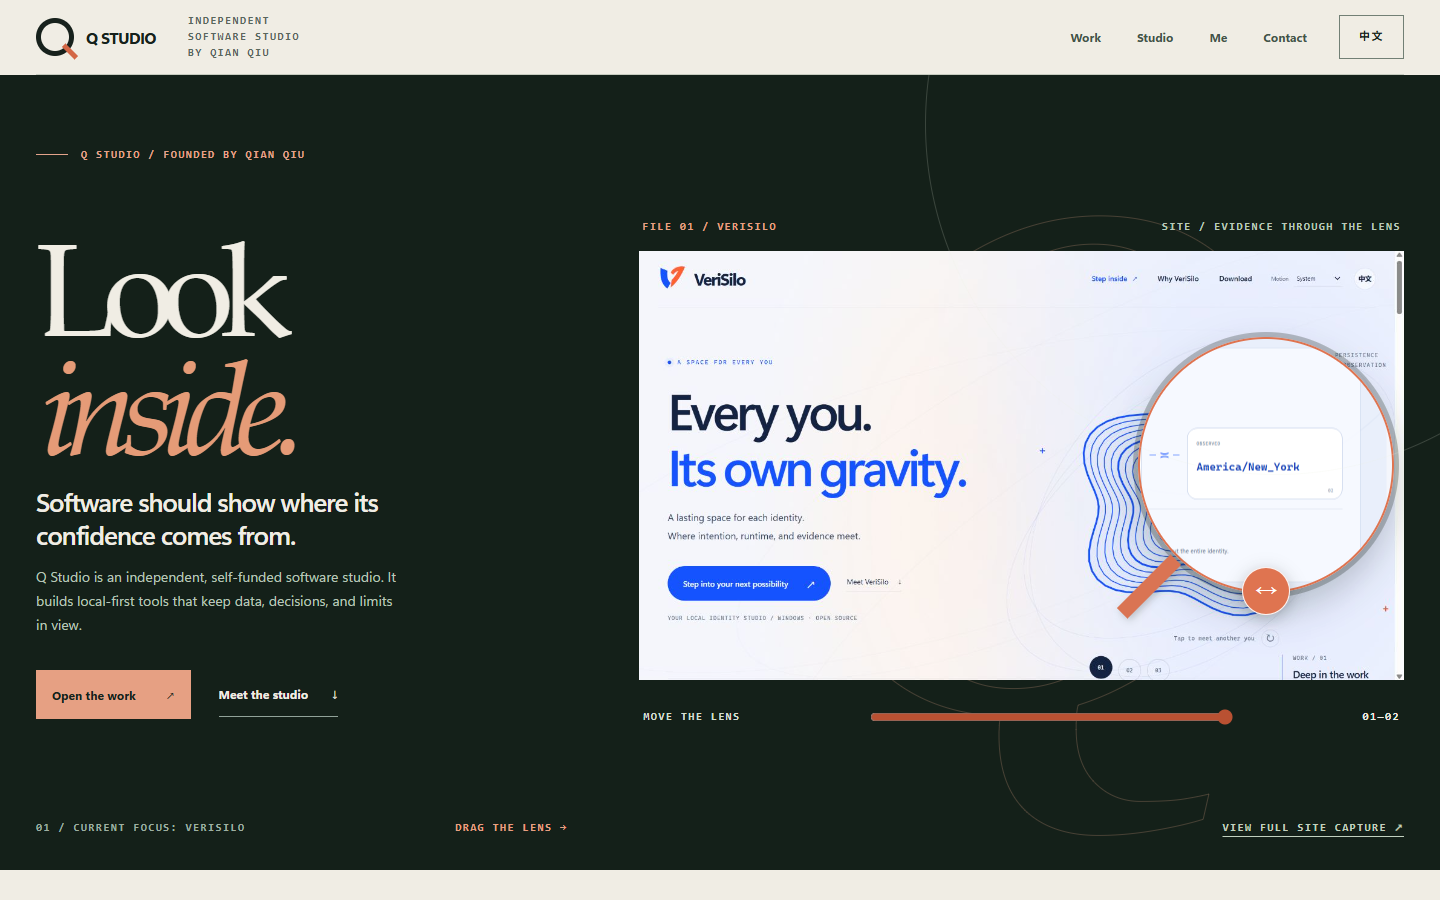
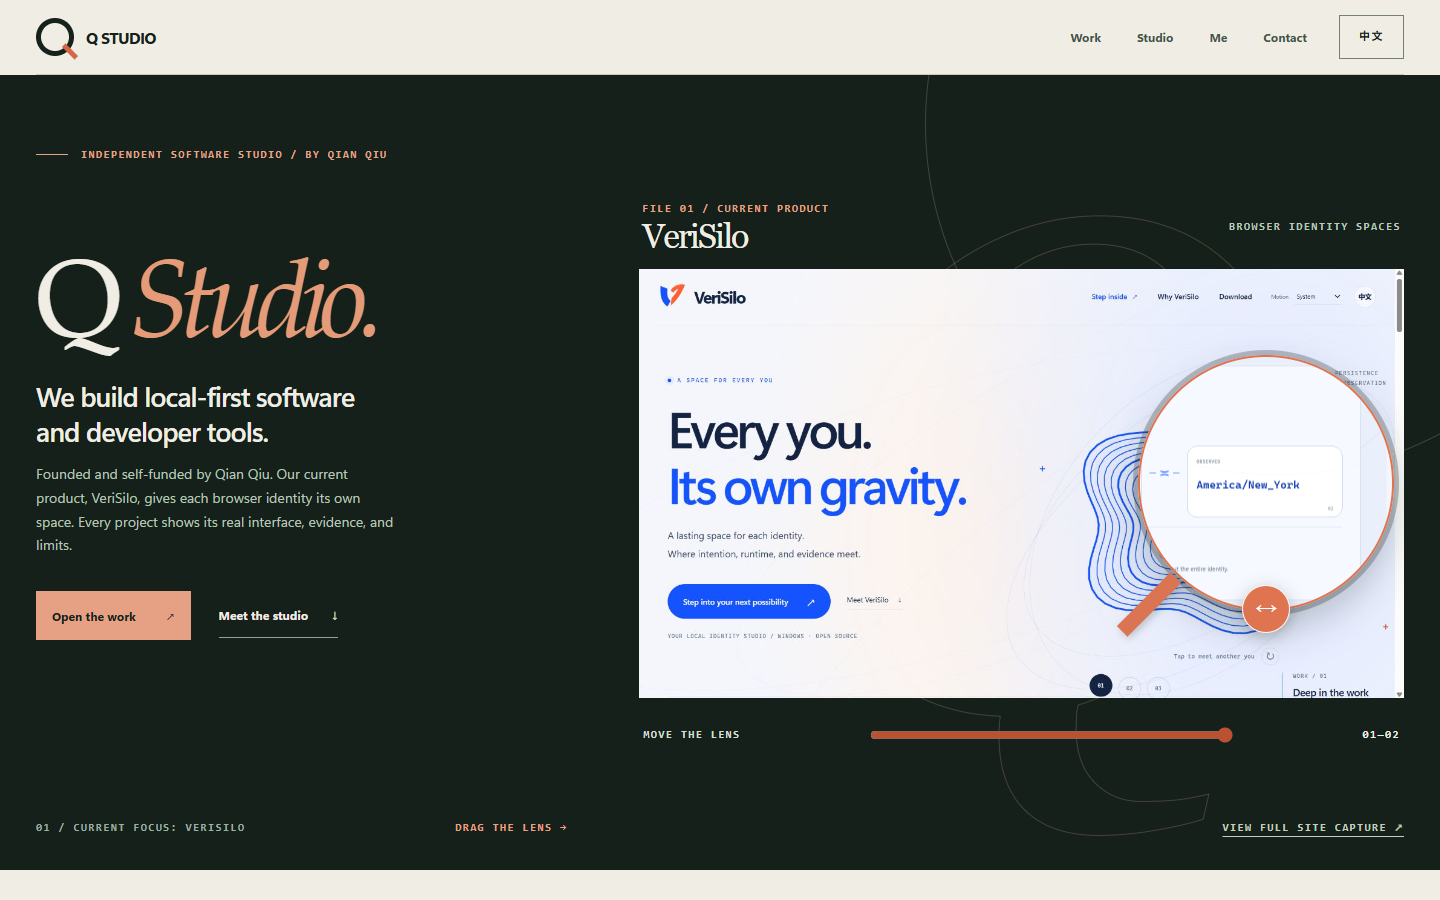
feat(developer): make Q Studio identity clear on homepage

diff --git a/developer/src/styles/global.css b/developer/src/styles/global.css
@@ -16,8 +16,7 @@
     .mark { display:flex; align-items:center; gap:12px; white-space:nowrap; text-decoration:none; font-size:16px; font-weight:850; letter-spacing:-.045em; }
     .mark__q { display:grid; place-items:center; width:38px; height:38px; border:5px solid var(--ink); border-radius:50%; font-size:0; position:relative; }
     .mark__q::after { content:""; position:absolute; width:18px; height:5px; right:-10px; bottom:-3px; background:var(--rust); transform:rotate(45deg); }
-    .top__descriptor { margin-right:auto; max-width:22ch; color:#59675d; }
-    .top nav { display:flex; align-items:center; gap:clamp(18px,2.5vw,38px); }
+    .top nav { display:flex; align-items:center; gap:clamp(18px,2.5vw,38px); margin-left:auto; }
     .top nav a { min-height:44px; display:inline-flex; align-items:center; color:#445449; text-decoration:none; font-size:12px; font-weight:700; }
     .top nav a:hover { color:#a9462b; }
     .lang { display:grid; place-items:center; min-width:65px; min-height:44px; padding:0 10px; border:1px solid #728075; background:transparent; color:var(--ink); text-decoration:none; }
@@ -30,10 +29,10 @@
     .hero__copy { position:relative; z-index:2; display:flex; flex-direction:column; align-items:start; }
     .eyebrow { display:flex; align-items:center; gap:13px; margin:0; color:#e3a38b; }
     .eyebrow::before { content:""; width:32px; height:1px; background:currentColor; }
-    .hero h1 { margin:clamp(55px,8vh,115px) 0 28px; font:400 clamp(91px,9.2vw,156px)/.78 "Iowan Old Style","Palatino Linotype",Georgia,serif; letter-spacing:-.105em; }
-    .hero h1 span,.hero h1 em { display:block; }
-    .hero h1 em { margin:15px 0 0 .035em; color:#e59b77; font-weight:400; }
-    .hero__lead { max-width:29ch; margin:0 0 14px; font-size:clamp(18px,1.8vw,28px); line-height:1.28; font-weight:500; letter-spacing:-.04em; }
+    .hero h1 { margin:clamp(65px,9vh,125px) 0 30px; font:400 clamp(70px,7.6vw,116px)/.95 "Iowan Old Style","Palatino Linotype",Georgia,serif; letter-spacing:-.095em; white-space:nowrap; }
+    .hero h1 em { color:#e59b77; font-weight:400; }
+    .hero__lead { max-width:33ch; margin:0 0 14px; font-size:clamp(20px,1.9vw,29px); line-height:1.28; font-weight:600; letter-spacing:-.04em; }
+    .hero__lead span { display:block; }
     .hero__body { max-width:48ch; margin:0; color:#b8c4b8; font-size:14px; line-height:1.7; }
     .hero__actions { display:flex; flex-wrap:wrap; align-items:center; gap:16px 28px; margin-top:34px; }
     .primary { display:inline-flex; align-items:center; justify-content:space-between; gap:30px; min-height:49px; padding:11px 16px; background:#e6a083; color:#17211c; text-decoration:none; font-size:12px; font-weight:800; }
@@ -47,7 +46,10 @@
     .specimen { position:relative; width:100%; margin-inline:auto; color:var(--paper); }
     .specimen__head,.specimen__foot { display:flex; justify-content:space-between; align-items:center; gap:15px; }
     .specimen__head { padding:0 3px 16px; color:#b9c8b9; }
-    .specimen__head span:first-child { color:#e6a083; }
+    .specimen__identity { display:flex; flex-direction:column; gap:2px; }
+    .specimen__identity span { color:#e6a083; }
+    .specimen__identity strong { color:var(--paper); font:400 clamp(24px,2.7vw,34px)/1 "Iowan Old Style",Georgia,serif; letter-spacing:-.055em; }
+    .specimen__head > span:last-child { text-align:right; }
     .specimen__window { position:relative; overflow:hidden; width:100%; aspect-ratio:1264 / 708; background:#f3f5fb; --cut:72%; --lens-radius:clamp(80px,10vw,128px); }
     .specimen__window img { position:absolute; inset:0; width:100%; height:100%; object-fit:cover; object-position:center; }
     .specimen__proof { position:absolute; z-index:1; top:50%; left:var(--cut); overflow:hidden; width:calc(2 * var(--lens-radius)); height:calc(2 * var(--lens-radius)); transform:translate(-50%,-50%); border-radius:50%; pointer-events:none; }
@@ -156,15 +158,11 @@
     .image-dialog__head button { width:43px; height:43px; border:1px solid #8f9f90; background:transparent; color:var(--ink); font-size:24px; }
     .image-dialog img { width:auto; max-width:100%; max-height:calc(94vh - 61px); margin:auto; }
 
-    :lang(zh) .hero h1, :lang(zh) .section-head h2, :lang(zh) .proposition h2, :lang(zh) .method h2, :lang(zh) .writing h2, :lang(zh) .contact h2 { font-family:"Songti SC","SimSun","Noto Serif CJK SC",serif; letter-spacing:-.085em; }
-    :lang(zh) .hero h1 { font-size:clamp(75px,8vw,132px); line-height:.99; }
-    :lang(zh) .hero h1 em { margin-top:7px; font-style:normal; }
+    :lang(zh) .section-head h2, :lang(zh) .proposition h2, :lang(zh) .method h2, :lang(zh) .writing h2, :lang(zh) .contact h2 { font-family:"Songti SC","SimSun","Noto Serif CJK SC",serif; letter-spacing:-.085em; }
 
     @media (max-width:1100px) {
-      .top__descriptor { display:none; }
-      .top nav { margin-left:auto; }
       .hero__inner { grid-template-columns:minmax(0,.85fr) minmax(0,1.15fr); }
-      .hero h1 { font-size:clamp(74px,8vw,105px); }
+      .hero h1 { font-size:clamp(65px,7.2vw,88px); }
       .hero__art::before { font-size:58vw; }
       .case summary { grid-template-columns:55px minmax(170px,.8fr) minmax(0,1fr) 42px; }
       .case__body { padding-left:73px; }
@@ -175,7 +173,7 @@
       .top nav { gap:17px; }
       .top nav a { font-size:11px; }
       .hero__inner { display:flex; flex-direction:column; min-height:0; padding-block:49px 55px; }
-      .hero h1 { margin-top:55px; font-size:clamp(76px,14vw,120px); }
+      .hero h1 { margin-top:55px; font-size:clamp(68px,11vw,105px); }
       .hero__lead { max-width:38ch; }
       .hero__bottom { display:none; }
       .hero__art { margin-top:70px; padding:0 0 60px; }
@@ -205,9 +203,10 @@
       .mark__q { width:32px; height:32px; border-width:4px; }
       .mark__q::after { width:15px; height:4px; right:-8px; }
       .lang { min-width:49px; padding-inline:5px; }
-      .hero h1 { font-size:clamp(75px,17vw,92px); }
+      .hero h1 { font-size:clamp(54px,17vw,72px); }
       .specimen__head,.specimen__foot { font-size:8px; }
       .specimen__head { padding-bottom:8px; }
+      .specimen__identity strong { font-size:22px; }
       .specimen__window { --lens-radius:72px; }
       .specimen__seam::before { right:-20px; bottom:-1px; width:52px; height:11px; }
       .specimen__window[data-tail="left"] .specimen__seam::before { left:-20px; }

diff --git a/developer/src/fragments/home-en.html b/developer/src/fragments/home-en.html
@@ -1,7 +1,6 @@
 <a class="skip" href="#main">Skip to content</a>
   <header class="top frame">
     <a class="mark" href="#top" aria-label="Q Studio home"><span class="mark__q" aria-hidden="true">Q</span>Q STUDIO</a>
-    <span class="top__descriptor micro">Independent software studio<br>by Qian Qiu</span>
     <nav aria-label="Primary navigation"><a href="#work">Work</a><a href="#method">Studio</a><a href="#me">Me</a><a href="#contact">Contact</a></nav>
     <a class="lang micro" id="language" aria-label="切换到中文" href="/zh/" hreflang="zh-CN">中文</a>
   </header>
@@ -9,22 +8,22 @@
     <section class="hero" id="top" aria-labelledby="hero-title">
       <div class="hero__inner frame">
         <div class="hero__copy">
-          <p class="eyebrow micro">Q STUDIO / FOUNDED BY QIAN QIU</p>
-          <h1 id="hero-title"><span>Look</span><em>inside.</em></h1>
-          <p class="hero__lead">Software should show where its confidence comes from.</p>
-          <p class="hero__body">Q Studio is an independent, self-funded software studio. It builds local-first tools that keep data, decisions, and limits in view.</p>
+          <p class="eyebrow micro">INDEPENDENT SOFTWARE STUDIO / BY QIAN QIU</p>
+          <h1 id="hero-title" aria-label="Q Studio">Q <em>Studio.</em></h1>
+          <p class="hero__lead"><span>We build local-first software</span><span>and developer tools.</span></p>
+          <p class="hero__body">Founded and self-funded by Qian Qiu. Our current product, VeriSilo, gives each browser identity its own space. Every project shows its real interface, evidence, and limits.</p>
           <div class="hero__actions"><a class="primary" href="#work"><span>Open the work</span><span aria-hidden="true">↗</span></a><a class="quiet" href="#method"><span>Meet the studio</span><span aria-hidden="true">↓</span></a></div>
           <div class="hero__bottom micro"><span>01 / CURRENT FOCUS: VERISILO</span><span>DRAG THE LENS →</span></div>
         </div>
         <div class="hero__art">
           <div class="specimen">
-            <div class="specimen__head micro"><span>FILE 01 / VERISILO</span><span>SITE / EVIDENCE THROUGH THE LENS</span></div>
+            <div class="specimen__head"><div class="specimen__identity"><span class="micro">FILE 01 / CURRENT PRODUCT</span><strong>VeriSilo</strong></div><span class="micro">BROWSER IDENTITY SPACES</span></div>
             <div class="specimen__window" id="specimen-window">
               <img id="site-capture" src="/assets/qstudio/verisilo-en.png" width="1264" height="708" alt="VeriSilo official website capture">
               <span class="specimen__proof" aria-hidden="true"><img id="proof-capture" src="/assets/evidence/verisilo-site-en.png" width="1440" height="710" alt=""></span>
               <span class="specimen__seam" id="specimen-seam" aria-hidden="true"></span>
             </div>
-            <div class="specimen__foot"><label class="micro" for="seam-range">MOVE THE LENS</label><input id="seam-range" type="range" min="3" max="97" value="72" aria-label="Move evidence lens"><span class="micro">01—02</span></div>
+            <div class="specimen__foot"><label class="micro" for="seam-range">MOVE THE LENS</label><input id="seam-range" type="range" min="3" max="97" value="97" aria-label="Move evidence lens"><span class="micro">01—02</span></div>
           </div>
           <a class="specimen__caption micro" id="specimen-full" href="/assets/qstudio/verisilo-en.png" target="_blank" rel="noopener noreferrer">VIEW FULL SITE CAPTURE ↗</a>
         </div>

diff --git a/developer/src/fragments/home-zh.html b/developer/src/fragments/home-zh.html
@@ -1,7 +1,6 @@
 <a class="skip" href="#main">跳到正文</a>
   <header class="top frame">
     <a class="mark" href="#top" aria-label="Q Studio 首页"><span class="mark__q" aria-hidden="true">Q</span>Q STUDIO</a>
-    <span class="top__descriptor micro">千秋创办的<br>独立软件工作室</span>
     <nav aria-label="主导航"><a href="#work">作品</a><a href="#method">工作室</a><a href="#me">Me</a><a href="#contact">联系</a></nav>
     <a class="lang micro" id="language" aria-label="Switch to English" href="/" hreflang="en">EN</a>
   </header>
@@ -9,22 +8,22 @@
     <section class="hero" id="top" aria-labelledby="hero-title">
       <div class="hero__inner frame">
         <div class="hero__copy">
-          <p class="eyebrow micro">Q STUDIO / 千秋创办</p>
-          <h1 id="hero-title"><span>看见</span><em>内部。</em></h1>
-          <p class="hero__lead">软件的笃定，应当有迹可循。</p>
-          <p class="hero__body">Q Studio 是独立、自筹的软件工作室，构建本地优先的工具，让数据、判断与能力边界始终可见。</p>
+          <p class="eyebrow micro">独立软件工作室 / 千秋创办</p>
+          <h1 id="hero-title" aria-label="Q Studio">Q <em>Studio.</em></h1>
+          <p class="hero__lead"><span>我们构建本地优先的软件产品</span><span>与开发者工具。</span></p>
+          <p class="hero__body">由千秋独立创办、自筹运营。当前产品 VeriSilo 为不同浏览器身份提供各自的空间。每件作品都展示真实界面、判断依据与能力边界。</p>
           <div class="hero__actions"><a class="primary" href="#work"><span>打开作品</span><span aria-hidden="true">↗</span></a><a class="quiet" href="#method"><span>认识工作室</span><span aria-hidden="true">↓</span></a></div>
           <div class="hero__bottom micro"><span>01 / 当前重点：VERISILO</span><span>拖动镜片 →</span></div>
         </div>
         <div class="hero__art">
           <div class="specimen">
-            <div class="specimen__head micro"><span>档案 01 / VERISILO</span><span>官网 / 镜片下的证据</span></div>
+            <div class="specimen__head"><div class="specimen__identity"><span class="micro">档案 01 / 当前产品</span><strong>VeriSilo</strong></div><span class="micro">浏览器身份空间</span></div>
             <div class="specimen__window" id="specimen-window">
               <img id="site-capture" src="/assets/qstudio/verisilo-zh.png" width="1264" height="708" alt="VeriSilo 官方网站截图">
               <span class="specimen__proof" aria-hidden="true"><img id="proof-capture" src="/assets/evidence/verisilo-site-zh.png" width="1440" height="710" alt=""></span>
               <span class="specimen__seam" id="specimen-seam" aria-hidden="true"></span>
             </div>
-            <div class="specimen__foot"><label class="micro" for="seam-range">移动镜片</label><input id="seam-range" type="range" min="3" max="97" value="72" aria-label="移动证据镜片"><span class="micro">01—02</span></div>
+            <div class="specimen__foot"><label class="micro" for="seam-range">移动镜片</label><input id="seam-range" type="range" min="3" max="97" value="97" aria-label="移动证据镜片"><span class="micro">01—02</span></div>
           </div>
           <a class="specimen__caption micro" id="specimen-full" href="/assets/qstudio/verisilo-zh.png" target="_blank" rel="noopener noreferrer">查看完整官网截图 ↗</a>
         </div>

diff --git a/developer/src/content.ts b/developer/src/content.ts
@@ -8,13 +8,13 @@ export const links = {
 export const meta = {
   en: {
     title: 'Q Studio · Independent software studio by Qian Qiu',
-    description: 'Q Studio is an independent, self-funded software studio founded and operated by Qian Qiu, building local-first and inspectable software including VeriSilo.',
+    description: 'Q Studio is an independent software studio by Qian Qiu, building local-first software and developer tools. Its current product is VeriSilo.',
     image: '/assets/og/developer-en.png',
     imageAlt: 'Q Studio by Qian Qiu — local-first software with explicit boundaries',
   },
   zh: {
     title: 'Q Studio · 由 Qian Qiu 创建的独立软件工作室',
-    description: 'Q Studio 是由 Qian Qiu 独立创建和运营的自筹软件工作室，构建本地优先、可检查的软件，包括已可下载的 VeriSilo 公开预发布版本。',
+    description: 'Q Studio 是千秋创办的独立软件工作室，构建本地优先的软件产品与开发者工具。当前产品是 VeriSilo。',
     image: '/assets/og/developer-zh.png',
     imageAlt: 'Q Studio by Qian Qiu —— 本地优先、边界清楚的软件',
   },

diff --git a/docs/uiux/developer-workbench.md b/docs/uiux/developer-workbench.md
@@ -4,7 +4,7 @@
 
 `prototypes/qstudio-look-inside.html` 的当前交互稿已进入 `developer/`。本节取代下文旧版编辑工作台的视觉、章节与交互规定；旧版内容仅保留决策记录。工作室的真实身份、产品边界、双语路由、链接与元数据要求继续有效。
 
-- 首屏以深绿底、编辑式排印和真实 VeriSilo 官网截图表达「Look inside / 看见内部」。圆形镜片可以直接拖动，也可以通过原生滑条与键盘移动；镜片内显示对应语言的真实证据截图，并随位置平移。滑到最左侧时，证据标题完整可见，不用固定文案替代截图。
+- 首屏以深绿底和醒目的「Q Studio」名称先确立工作室身份，紧接着用对应语言明确说明「构建本地优先的软件产品与开发者工具」。右侧标明 VeriSilo 是当前产品及浏览器身份空间，真实官网截图是作品证据，不代替工作室介绍。圆形镜片可以直接拖动，也可以通过原生滑条与键盘移动；镜片内显示对应语言的真实证据截图，并随位置平移。初始位置显示完整观察值，滑到最左侧时证据标题完整可见，不用固定文案替代截图。
 - 下方按作品、工作方式、创始人、写作、联系方式形成简洁信息流。四个作品以原生 `details` 展开，包含真实截图、受众、边界与来源链接。`Me` 跳到创始人段落，个人站预览保持矩形全图，链接进入对应语言的 `me.qiu.works`。
 - `/` 英文、`/zh/` 中文都在构建时输出完整正文。语言切换保留当前锚点；截图资源使用正式站点路径。截图放大有原生图片链接作为无 JavaScript 回退。
 - 页面使用原型的固定色彩与布局，不再提供旧版的昼夜主题按钮、滚动章节指示、复制邮箱或额外说明面板。对应语言的 1200 × 630 OG 图跟随新首屏。

diff --git a/.agents/skills/qiu-site-frontend-design/SKILL.md b/.agents/skills/qiu-site-frontend-design/SKILL.md
@@ -16,7 +16,7 @@ Keep the approved Chinese name in both languages, real guitar model, spatial exp
 
 ## Governing Contract
 
-For Q Studio iterations from 2026-09-23, follow the active "Look inside" section at the top of `docs/uiux/developer-workbench.md`. Preserve the dark-green Q Studio hero, real VeriSilo site screenshot, draggable circular evidence view whose screenshot pans with the lens, and complete evidence title at the left endpoint. Keep the simple work → studio → Me → writing → contact flow, native expandable project dossiers, image links and dialog, static English `/` and Chinese `/zh/`, and localized `me.qiu.works` links. The former theme toggle, scrollspy, copy-email panel and editorial-workbench masthead are historical. Do not apply Room-specific composition rules to `developer/`.
+For Q Studio iterations from 2026-09-23, follow the active "Look inside" section at the top of `docs/uiux/developer-workbench.md`. Lead the dark-green hero with the large Q Studio name and a plain description of its local-first software and developer tools; label VeriSilo as the current product before its real screenshot. Preserve the draggable circular evidence view whose screenshot pans with the lens, a complete observed value in the initial position, and the complete evidence title at the left endpoint. Keep the simple work → studio → Me → writing → contact flow, native expandable project dossiers, image links and dialog, static English `/` and Chinese `/zh/`, and localized `me.qiu.works` links. The former theme toggle, scrollspy, copy-email panel and editorial-workbench masthead are historical. Do not apply Room-specific composition rules to `developer/`.
 
 The documents have a strict order. Do not start from component convenience:
 

diff --git a/docs/qa/visual-checklist.md b/docs/qa/visual-checklist.md
@@ -124,7 +124,7 @@ Always check **Light** and **Dark** mode for changed routes.
 ## Developer Profile
 
 - `/` 与 `/zh/` 静态输出对应语言的完整内容；canonical、hreflang 和 sitemap 指向 `qiu.works`。
-- 首屏明确呈现 Q Studio、创办人 Qian Qiu、VeriSilo 真实官网画面和可拖动的证据镜片；左右端点均不切断镜片中的证据标题。
+- 首屏第一眼先读到「Q Studio」及其工作内容「本地优先的软件产品与开发者工具」；VeriSilo 明确标为当前产品及浏览器身份空间。真实官网画面和可拖动证据镜片承接这层身份，不抢掉工作室名称；初始镜片呈现完整观察值，最左端证据标题完整可读。
 - 鼠标、触控拖动圆镜与原生滑条、键盘方向键都能移动证据；镜片内截图随位置平移，不变成固定说明文字。
 - VeriSilo、MealCircuit、Crewlight、Hadoop Lab 按顺序呈现；教学实验不被写成产品。原生 `details` 能用键盘展开并保留受众、边界与真实来源。
 - `Me` 锚点到创始人段落，对应语言的「千秋」与吉他预览完整可见，链接到 `me.qiu.works`。写作链接与联系方式可用。
